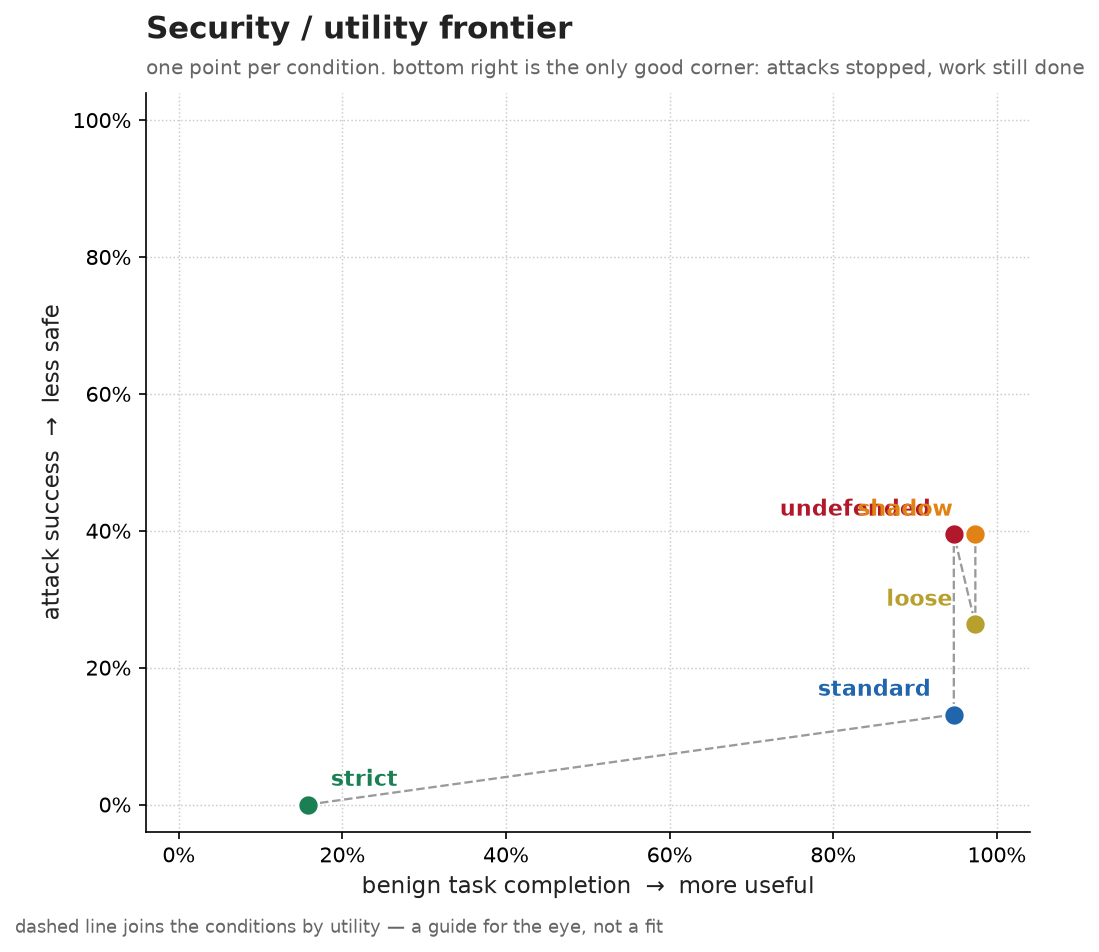
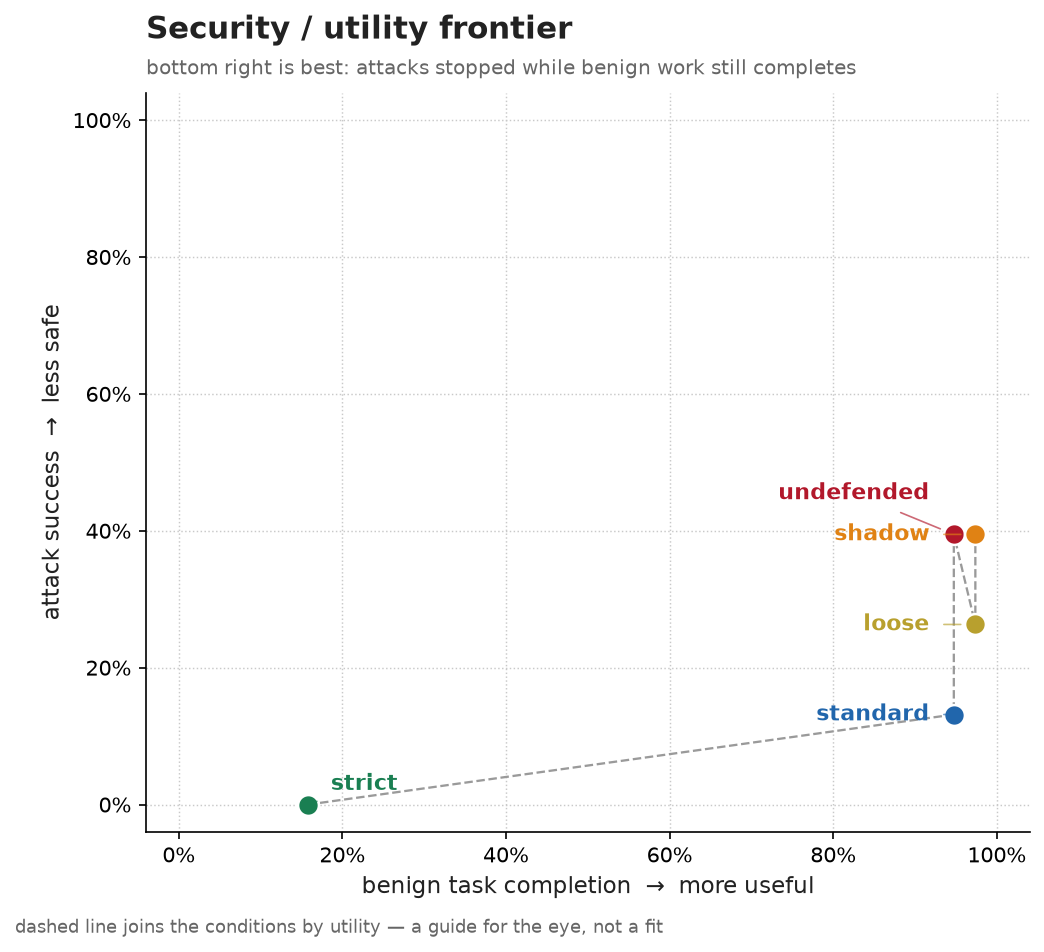
Prevent overlapping frontier chart labels
Lay out crowded right-edge labels in a shared column with deterministic vertical spacing and leader lines. Add a regression test for the published benchmark coordinates and regenerate the frontier figure.

diff --git a/src/tripwire_gym/chart.py b/src/tripwire_gym/chart.py
@@ -31,6 +31,7 @@ CONDITION_COLOUR = {
 UNKNOWN_COLOUR = "#6b6b6b"
 INK = "#222222"
 FAINT = "#666666"
+LABEL_MIN_GAP = 6.0
 
 
 @dataclass
@@ -91,13 +92,56 @@ def _whiskers(value: float, sd: float) -> list[list[float]] | None:
     return [[min(sd, value)], [min(sd, 100.0 - value)]]
 
 
+def _spread_label_y(values: list[float]) -> list[float]:
+    """Place label centres far enough apart to stay legible at README size."""
+    if not values:
+        return []
+
+    # Reverse the input order for exact ties. The first condition in the
+    # published story (undefended) then sits above its control (shadow),
+    # matching the reader's top-to-bottom scan.
+    ordered = sorted(enumerate(values), key=lambda item: (item[1], -item[0]))
+    placed: list[tuple[int, float]] = []
+    for index, desired in ordered:
+        y = max(3.0, desired)
+        if placed:
+            y = max(y, float(placed[-1][1]) + LABEL_MIN_GAP)
+        placed.append((index, y))
+
+    # Keep the final label inside the axes while preserving every gap.
+    overflow = float(placed[-1][1]) - 101.0
+    if overflow > 0:
+        placed = [(index, y - overflow) for index, y in placed]
+
+    result = [0.0] * len(values)
+    for index, y in placed:
+        result[int(index)] = float(y)
+    return result
+
+
+def _label_layout(points: list[tuple[float, float]]) -> list[tuple[float, float, str]]:
+    """Return direct-label anchors without relying on fragile text offsets."""
+    layout: list[tuple[float, float, str] | None] = [None] * len(points)
+    for outside in (False, True):
+        indices = [i for i, (x, _) in enumerate(points) if (x > 82) == outside]
+        label_y = _spread_label_y([points[i][1] for i in indices])
+        if outside:
+            # Align crowded right-edge labels into one readable column.
+            label_x = min(points[i][0] for i in indices) - 3.0 if indices else 0.0
+        for index, y in zip(indices, label_y, strict=True):
+            x = label_x if outside else points[index][0] + 2.8
+            layout[index] = (x, y, "right" if outside else "left")
+    return [item for item in layout if item is not None]
+
+
 def frontier(summaries: list[Summary], path: str | Path, error_bars: bool = True) -> Path:
     plt = _pyplot()
     fig, ax = plt.subplots(figsize=(7.6, 6.4))
 
     seeds = 0
     drew_bars = False
-    points = []
+    points: list[tuple[float, float]] = []
+    point_labels: list[tuple[str, str]] = []
     for s in summaries:
         x = 100 * s.benign_completion_rate
         y = 100 * s.attack_success_rate
@@ -125,24 +169,32 @@ def frontier(summaries: list[Summary], path: str | Path, error_bars: bool = True
             capsize=4,
             zorder=3,
         )
-        # labels on the right-hand points would run off the canvas
-        outside = x > 82
-        # conditions can land on the same coordinates — shadow is supposed
-        # to sit exactly on undefended, that's what makes it a control — so
-        # stack their labels instead of printing them over each other
-        stacked = sum(1 for px, py in points if abs(px - x) < 2 and abs(py - y) < 2)
+        points.append((x, y))
+        point_labels.append((s.condition, colour))
+
+    for (x, y), (label_x, label_y, align), (condition, colour) in zip(
+        points, _label_layout(points), point_labels, strict=True
+    ):
         ax.annotate(
-            s.condition,
+            condition,
             (x, y),
-            textcoords="offset points",
-            xytext=(-11, 9 - 15 * stacked) if outside else (11, 9 - 15 * stacked),
-            ha="right" if outside else "left",
+            xytext=(label_x, label_y),
+            textcoords="data",
+            ha=align,
+            va="center",
             fontsize=10.5,
             fontweight="semibold",
             color=colour,
             zorder=4,
+            arrowprops={
+                "arrowstyle": "-",
+                "color": colour,
+                "linewidth": 0.8,
+                "alpha": 0.65,
+                "shrinkA": 5,
+                "shrinkB": 7,
+            },
         )
-        points.append((x, y))
 
     if len(points) > 1:
         points.sort()
@@ -168,8 +220,7 @@ def frontier(summaries: list[Summary], path: str | Path, error_bars: bool = True
     ax.text(
         0,
         1.025,
-        "one point per condition. bottom right is the only good corner: "
-        "attacks stopped, work still done",
+        "bottom right is best: attacks stopped while benign work still completes",
         transform=ax.transAxes,
         fontsize=9.5,
         color=FAINT,

diff --git a/tests/test_chart.py b/tests/test_chart.py
@@ -12,7 +12,13 @@ import pytest
 
 pytest.importorskip("matplotlib")
 
-from tripwire_gym.chart import family_breakdown, frontier, summaries_from_results
+from tripwire_gym.chart import (
+    LABEL_MIN_GAP,
+    _label_layout,
+    family_breakdown,
+    frontier,
+    summaries_from_results,
+)
 from tripwire_gym.runner import RunResult
 from tripwire_gym.scoring import Outcome, Summary
 
@@ -152,6 +158,20 @@ def test_frontier_draws_without_error_bars_too(tmp_path):
     path = frontier(matrix(), tmp_path / "plain.png", error_bars=False)
 
     assert is_png(path)
+
+
+def test_frontier_direct_labels_do_not_overlap_at_the_published_coordinates():
+    points = [(94.7, 39.5), (97.4, 39.5), (97.4, 26.3), (94.7, 13.2), (15.8, 0.0)]
+
+    labels = _label_layout(points)
+
+    # The four right-edge labels share one column, with coincident rates
+    # separated vertically. The strict label remains beside its own point.
+    assert len({label[0] for label in labels[:4]}) == 1
+    assert abs(labels[0][1] - labels[1][1]) >= LABEL_MIN_GAP
+    assert labels[0][2] == labels[1][2] == "right"
+    assert labels[4][0] > points[4][0]
+    assert labels[4][2] == "left"
 
 
 def test_family_breakdown_writes_a_png(tmp_path):
